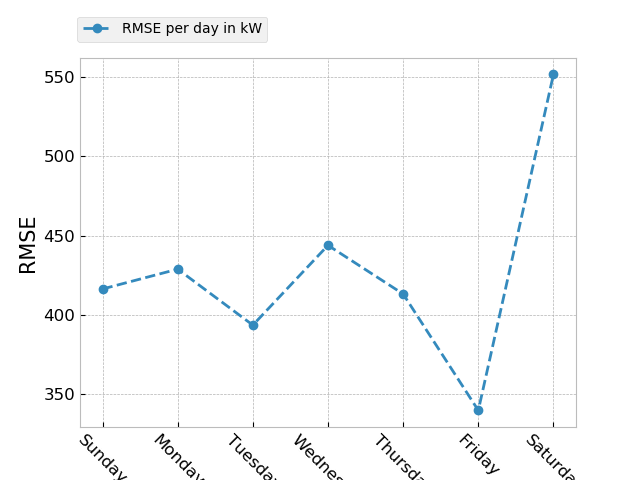
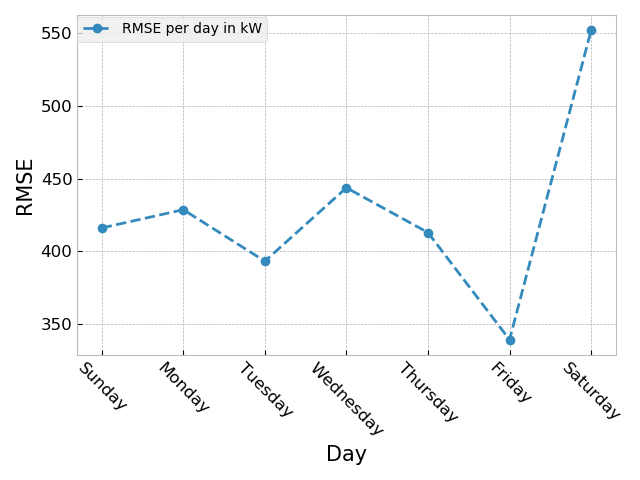
Remade the graphs with tight layout

diff --git a/power_consumption_forecast/ts_forecast.py b/power_consumption_forecast/ts_forecast.py
@@ -246,6 +246,7 @@ ax.set_xticks(np.arange(0, 7))
 ax.set_xticklabels(days, rotation=-45)
 fig.legend(loc='upper left', bbox_to_anchor=(0.11, 0.98))
 ax.tick_params(axis='both', labelsize=12)
+plt.tight_layout()
 plt.savefig(r"/Users/dimitar/IdeaProjects/timeseries_analysis/power_consumption_forecast/daily_error.png")
 plt.show()
 
@@ -260,6 +261,7 @@ ax1.set_xticks(np.arange(0, 7))
 ax1.set_xticklabels(days, rotation=-45)
 fig1.legend(loc='upper right', bbox_to_anchor=(0.85, 0.99))
 ax1.tick_params(axis='both', labelsize=12)
+plt.tight_layout()
 plt.savefig(r"/Users/dimitar/IdeaProjects/timeseries_analysis"
             r"/power_consumption_forecast/prediction_vs_actual_averages.png")
 plt.show()
